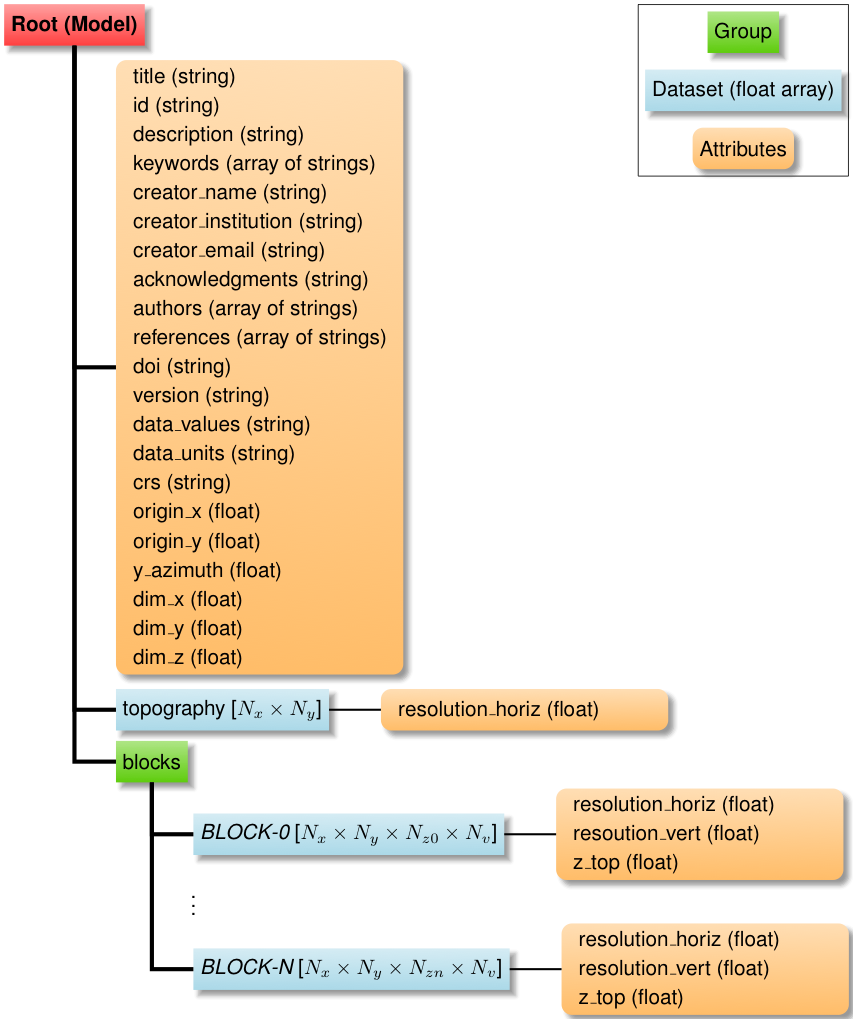
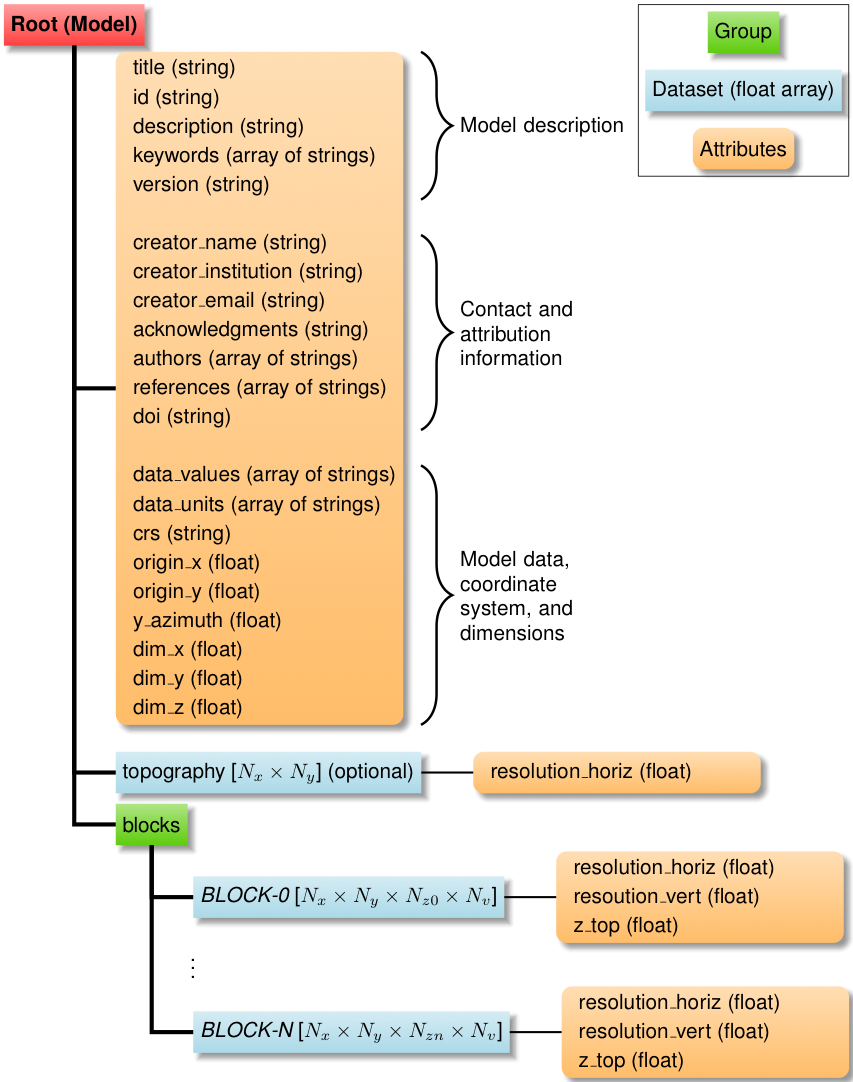
DOC: Improve HDF5 layout figure.

diff --git a/docs/overview/figs/hdf5layout.tex b/docs/overview/figs/hdf5layout.tex
@@ -9,7 +9,7 @@
 \input{palettes/palette_general}
 \input{palettes/palette_usgs}
 
-\usetikzlibrary{positioning,arrows,shapes,calc,shadows.blur}
+\usetikzlibrary{positioning,arrows,shapes,calc,shadows.blur,decorations.pathreplacing}
 
 \tikzstyle{diagram} = [node distance=2.5em]
 
@@ -55,6 +55,17 @@ font={\bfseries},
 \tikzstyle{subset-right} = [
   xshift=2em]
 
+\tikzstyle{annotation} = [
+  text width=8em,
+  midway,
+  xshift=1.5em,
+  anchor=west]
+\tikzstyle{annotation-brace} = [
+  decorate,
+  very thick,
+  decoration={brace,amplitude=1.5em},
+  xshift=-4pt]
+  
 \tikzstyle{legend} = [
   anchor=center]
 
@@ -66,12 +77,14 @@ font={\bfseries},
   \node (model) [root] {Root (Model)};
 
   % Model attributes
-  \node (model-attrs) [below=of model.center, attributes, subset-right, yshift=-14.0em] {%
+  \node (model-attrs) [below=of model.center, attributes, subset-right, yshift=-15.0em] {%
     \begin{attributes}
     \item title (string)
     \item id (string)
     \item description (string)
     \item keywords (array of strings)
+    \item version (string)
+    \item \ 
     \item creator\_name (string)
     \item creator\_institution (string)
     \item creator\_email (string)
@@ -79,7 +92,7 @@ font={\bfseries},
     \item authors (array of strings)
     \item references (array of strings)
     \item doi (string)
-    \item version (string)
+    \item \ 
     \item data\_values (array of strings)
     \item data\_units (array of strings)
     \item crs (string)
@@ -93,8 +106,13 @@ font={\bfseries},
   };
   \draw[arrowto] (model.south) |- (model-attrs.west);
 
+  % Model attributes annotation
+  \draw [annotation-brace] ($(model-attrs.north east)+(0.3,0)$) -- ++(0,-2.5) node [annotation] {Model description};
+  \draw [annotation-brace] ($(model-attrs.north east)+(0.3,-3.1)$) -- ++(0,-3.3) node [annotation] {Contact and attribution information};
+  \draw [annotation-brace] ($(model-attrs.north east)+(0.3,-7.0)$) -- ($(model-attrs.south east)+(0.3,0)$) node [annotation] {Model data, coordinate system, and dimensions};
+  
   % Topography
-  \node (topography) [below=of model-attrs.west, dataset, yshift=-14em] {topography [$N_x \times N_y$]};
+  \node (topography) [below=of model-attrs.west, dataset, yshift=-16em] {topography [$N_x \times N_y$] (optional)};
   \node (topography-attrs) [right=of topography.east, attributes] {%
     \begin{attributes}
     \item resolution\_horiz (float)
